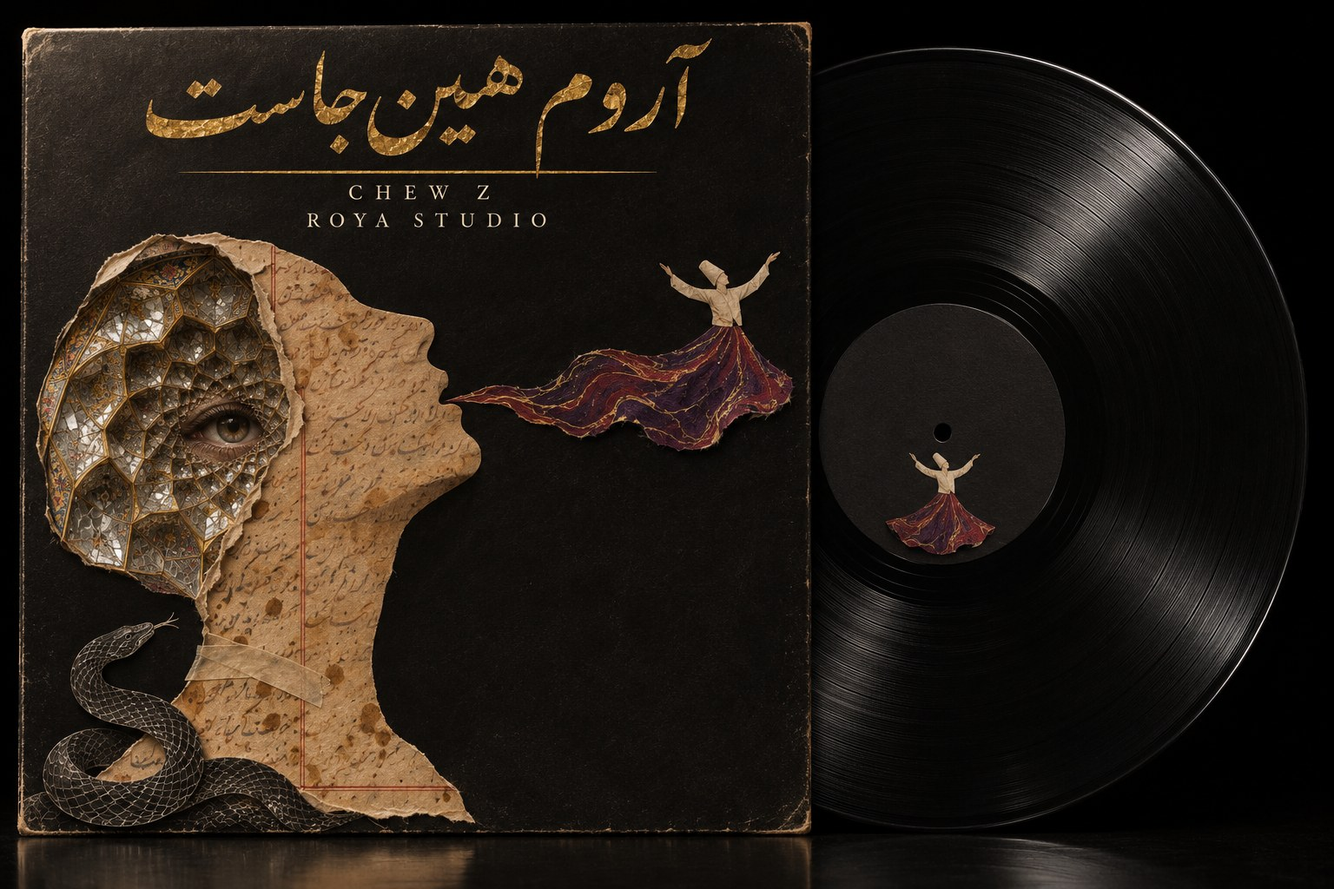
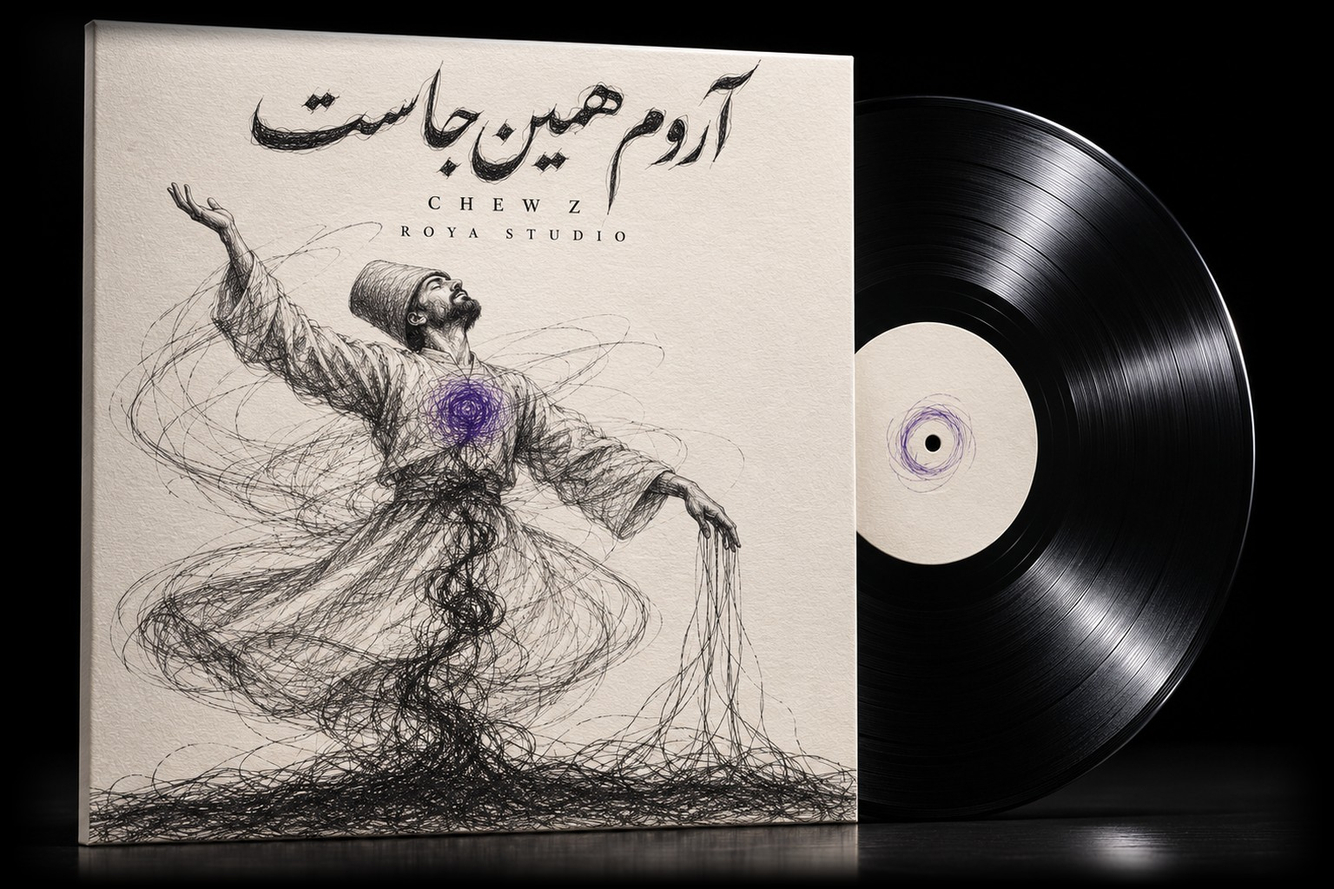
albums 03-08

diff --git a/songs.js b/songs.js
@@ -1,6 +1,6 @@
 /* ════════════════════════════════════════════════════════════════
    songs.js — the recordings catalogue
-   Version 14 · last updated 2026-11-26 21:10 EST — Minister of Calm in its new running order (01-13 at track 7) and a new note for 01-13
+   Version 15 · last updated 2026-11-27 09:10 EST — 03-08 لعنت به این جنگ joins آروم همینجاست at track 2; new sleeves for both albums
 
    Album 2 (Roya) was retired on 2026-11-20 and its two songs taken
    down, to be re-recorded onto the other albums. Album number 2 and
@@ -51,10 +51,10 @@ const ALBUMS = [
     en: "Calm Is Right Here",
     fa: true,
     order: 2,
-    songs: 7,
-    dur: 2117,                       /* 35:17 */
+    songs: 8,
+    dur: 2407,                       /* 40:07 */
     released: "2026-11",
-    syn: "Seven songs in Persian for the things the English ones couldn't carry. A night asked not to end, a reed cut from its bed, a turn that hands every grief to the earth but one, one second that never stopped, a city drawn wrong, a wall addressed instead of a person, and a school named for a tree."
+    syn: "Eight songs in Persian for the things the English ones couldn't carry. A night asked not to end, a war cursed by the generation it took, a reed cut from its bed, a turn that hands every grief to the earth but one, one second that never stopped, a city drawn wrong, a wall addressed instead of a person, and a school named for a tree."
   }
 ];
 
@@ -140,38 +140,45 @@ const SONGS = [
     lyric: "songs/03-06.json",
     note: "A dervish's turn: left foot on the earth, head to the right, one hand taking from the sky and the other giving to the ground. Everyone else's grief passes through the dancer into the soil — all but one, which stays, and turns with them." },
 
-  { cat: "03-03", album: 3, track: 2, title: "تا شب تموم نشه", fa: true,
+  { cat: "03-08", album: 3, track: 2, title: "لعنت به این جنگ", fa: true,
+    translit: "La'nat be in jang", en: "Damn This War", dur: 290,
+    from: 26,
+    audio: "https://f005.backblazeb2.com/file/roya-audio/songs/03-08.mp3",
+    lyric: "songs/03-08.json",
+    note: "Born out of No. 26 and the gassed marshes of 1984, but it's about every war: twenty-year-olds handed to old men who never fight, spent on a crooked line for the comfort of the wealthy, and left as a name on an empty stone. Forty years on, with Iran under bombs again, nothing has changed, and in the last verse the curse turns on the boy who went without asking why." },
+
+  { cat: "03-03", album: 3, track: 3, title: "تا شب تموم نشه", fa: true,
     translit: "Ta shab tamoom nashe", en: "Don't Let the Night End", dur: 306,
     audio: "https://f005.backblazeb2.com/file/roya-audio/songs/03-03.mp3",
     lyric: "songs/03-03.json",
     note: "Two people asking the night not to finish, looking for somewhere the day can't reach and nobody's hand can find them. The most straightforwardly romantic song in the catalogue, and the most frightened underneath." },
 
-  { cat: "03-07", album: 3, track: 3, title: "درختِ پاک", fa: true,
+  { cat: "03-07", album: 3, track: 4, title: "درختِ پاک", fa: true,
     translit: "Derakht-e pak", en: "The Pure Tree", dur: 300,
     from: 120,
     audio: "https://f005.backblazeb2.com/file/roya-audio/songs/03-07.mp3",
     lyric: "songs/03-07.json",
     note: "A morning in Minab like a thousand others: a schoolbag, a red apple, a plait coming loose, a hand let go at the school gate with “come home soon.” Then the bombs fell on the school. A mother runs back the same nine minutes and knows her daughter by one shoe. The school was named for the Goodly Tree, root in the earth and branches in the sky, and a root has no hands to reach with." },
 
-  { cat: "03-05", album: 3, track: 4, title: "هنوز", fa: true,
+  { cat: "03-05", album: 3, track: 5, title: "هنوز", fa: true,
     translit: "Hanooz", en: "Still", dur: 284,
     audio: "https://f005.backblazeb2.com/file/roya-audio/songs/03-05.mp3",
     lyric: "songs/03-05.json",
     note: "A glance, a second longer than it needed to be, a warmer hello, two chairs and a table between. Nothing happened, and it is still happening." },
 
-  { cat: "03-02", album: 3, track: 5, title: "بسوزونم", fa: true,
+  { cat: "03-02", album: 3, track: 6, title: "بسوزونم", fa: true,
     translit: "Besoozoonam", en: "Let Me Burn", dur: 359,
     audio: "https://f005.backblazeb2.com/file/roya-audio/songs/03-02.mp3",
     lyric: "songs/03-02.json",
     note: "It opens where Rumi opens, with the reed cut from the reed bed, crying because it was cut. Being pulled out of the soil and planted in the wind, and a voice that only becomes a voice through the separation that made it." },
 
-  { cat: "03-01", album: 3, track: 6, title: "آروم همینجاست", fa: true,
+  { cat: "03-01", album: 3, track: 7, title: "آروم همینجاست", fa: true,
     translit: "Aroom hamin-jast", en: "Calm Is Right Here", dur: 359,
     audio: "https://f005.backblazeb2.com/file/roya-audio/songs/03-01.mp3",
     lyric: "songs/03-01.json",
     note: "The city is a map drawn wrong, every alley a door promising calm, and behind none of them a home. He drew the map himself, and he's the dragon on it too — the calm turns out to be in the breath he was holding." },
 
-  { cat: "03-04", album: 3, track: 7, title: "ساکت نباش", fa: true,
+  { cat: "03-04", album: 3, track: 8, title: "ساکت نباش", fa: true,
     translit: "Saket nabash", en: "Don't Be Silent", dur: 239,
     from: 78,
     audio: "https://f005.backblazeb2.com/file/roya-audio/songs/03-04.mp3",

diff --git a/share/song-03-08-lanat-be-in-jang.html b/share/song-03-08-lanat-be-in-jang.html
@@ -1,0 +1,53 @@
+<!DOCTYPE html>
+<html lang="fa" dir="rtl">
+<head>
+<meta charset="utf-8">
+<meta name="viewport" content="width=device-width, initial-scale=1">
+<title>لعنت به این جنگ — Chew Z</title>
+
+<!-- This page exists to be read by link previews. A person who opens
+     it is sent straight on to the recording — see the redirect below. -->
+<link rel="canonical" href="https://www.chewzfiction.com/#song-03-08">
+
+<meta name="description" content="From آروم همینجاست. Born out of No. 26 and the gassed marshes of 1984, but it's about every war: twenty-year-olds handed to old men who never fight, spent on a crooked line for the comfort of the wealthy, and left as a name on an empty stone. Forty years on, with Iran under bombs again, nothing has changed, and in the last verse the curse turns on the boy who went without asking why.">
+
+<meta property="og:type" content="music.song">
+<meta property="og:site_name" content="Chew Z">
+<meta property="og:url" content="https://www.chewzfiction.com/#song-03-08">
+<meta property="og:title" content="لعنت به این جنگ — Chew Z">
+<meta property="og:description" content="From آروم همینجاست. Born out of No. 26 and the gassed marshes of 1984, but it's about every war: twenty-year-olds handed to old men who never fight, spent on a crooked line for the comfort of the wealthy, and left as a name on an empty stone. Forty years on, with Iran under bombs again, nothing has changed, and in the last verse the curse turns on the boy who went without asking why.">
+<meta property="og:image" content="https://www.chewzfiction.com/albums/card/03.jpg?v=725">
+<meta property="og:image:secure_url" content="https://www.chewzfiction.com/albums/card/03.jpg?v=725">
+<meta property="og:image:type" content="image/jpeg">
+<meta property="og:image:width" content="1200">
+<meta property="og:image:height" content="630">
+<meta property="og:image:alt" content="آروم همینجاست — album cover">
+
+<meta name="twitter:card" content="summary_large_image">
+<meta name="twitter:title" content="لعنت به این جنگ — Chew Z">
+<meta name="twitter:description" content="From آروم همینجاست. Born out of No. 26 and the gassed marshes of 1984, but it's about every war: twenty-year-olds handed to old men who never fight, spent on a crooked line for the comfort of the wealthy, and left as a name on an empty stone. Forty years on, with Iran under bombs again, nothing has changed, and in the last verse the curse turns on the boy who went without asking why.">
+<meta name="twitter:image" content="https://www.chewzfiction.com/albums/card/03.jpg?v=725">
+
+<!-- Two ways on, because one of them can fail. The refresh works with
+     JavaScript turned off; the script runs first when it isn't, and
+     replaces this page in history so Back returns to wherever the
+     reader came from rather than trapping them here. -->
+<meta http-equiv="refresh" content="0; url=https://www.chewzfiction.com/#song-03-08">
+<script>location.replace("https://www.chewzfiction.com/#song-03-08");</script>
+
+<style>
+  body {
+    margin: 0; min-height: 100vh;
+    display: flex; align-items: center; justify-content: center;
+    background: #0b0907; color: #9c9280;
+    font-family: "Jost", "Century Gothic", sans-serif;
+    letter-spacing: 0.18em; text-transform: uppercase; font-size: 0.7rem;
+    text-align: center; padding: 2rem;
+  }
+  a { color: #d8a65f; }
+</style>
+</head>
+<body>
+  <p>Taking you to <a href="https://www.chewzfiction.com/#song-03-08">لعنت به این جنگ — Chew Z</a>&hellip;</p>
+</body>
+</html>

diff --git a/share/album-03-aroom-hamin-jast.html b/share/album-03-aroom-hamin-jast.html
@@ -9,15 +9,15 @@
      it is sent straight on to the recording — see the redirect below. -->
 <link rel="canonical" href="https://www.chewzfiction.com/#album-03">
 
-<meta name="description" content="Seven songs in Persian for the things the English ones couldn't carry. A night asked not to end, a reed cut from its bed, a turn that hands every grief to the earth but one, one second that never stopped, a city drawn wrong, a wall addressed instead of a person, and a school named for a tree.">
+<meta name="description" content="Eight songs in Persian for the things the English ones couldn't carry. A night asked not to end, a war cursed by the generation it took, a reed cut from its bed, a turn that hands every grief to the earth but one, one second that never stopped, a city drawn wrong, a wall addressed instead of a person, and a school named for a tree.">
 
 <meta property="og:type" content="music.album">
 <meta property="og:site_name" content="Chew Z">
 <meta property="og:url" content="https://www.chewzfiction.com/#album-03">
 <meta property="og:title" content="آروم همینجاست — Chew Z">
-<meta property="og:description" content="Seven songs in Persian for the things the English ones couldn't carry. A night asked not to end, a reed cut from its bed, a turn that hands every grief to the earth but one, one second that never stopped, a city drawn wrong, a wall addressed instead of a person, and a school named for a tree.">
-<meta property="og:image" content="https://www.chewzfiction.com/albums/card/03.jpg?v=711">
-<meta property="og:image:secure_url" content="https://www.chewzfiction.com/albums/card/03.jpg?v=711">
+<meta property="og:description" content="Eight songs in Persian for the things the English ones couldn't carry. A night asked not to end, a war cursed by the generation it took, a reed cut from its bed, a turn that hands every grief to the earth but one, one second that never stopped, a city drawn wrong, a wall addressed instead of a person, and a school named for a tree.">
+<meta property="og:image" content="https://www.chewzfiction.com/albums/card/03.jpg?v=725">
+<meta property="og:image:secure_url" content="https://www.chewzfiction.com/albums/card/03.jpg?v=725">
 <meta property="og:image:type" content="image/jpeg">
 <meta property="og:image:width" content="1200">
 <meta property="og:image:height" content="630">
@@ -25,8 +25,8 @@
 
 <meta name="twitter:card" content="summary_large_image">
 <meta name="twitter:title" content="آروم همینجاست — Chew Z">
-<meta name="twitter:description" content="Seven songs in Persian for the things the English ones couldn't carry. A night asked not to end, a reed cut from its bed, a turn that hands every grief to the earth but one, one second that never stopped, a city drawn wrong, a wall addressed instead of a person, and a school named for a tree.">
-<meta name="twitter:image" content="https://www.chewzfiction.com/albums/card/03.jpg?v=711">
+<meta name="twitter:description" content="Eight songs in Persian for the things the English ones couldn't carry. A night asked not to end, a war cursed by the generation it took, a reed cut from its bed, a turn that hands every grief to the earth but one, one second that never stopped, a city drawn wrong, a wall addressed instead of a person, and a school named for a tree.">
+<meta name="twitter:image" content="https://www.chewzfiction.com/albums/card/03.jpg?v=725">
 
 <!-- Two ways on, because one of them can fail. The refresh works with
      JavaScript turned off; the script runs first when it isn't, and

diff --git a/share/song-01-13-dying-for-heaven-to-end.html b/share/song-01-13-dying-for-heaven-to-end.html
@@ -16,8 +16,8 @@
 <meta property="og:url" content="https://www.chewzfiction.com/#song-01-13">
 <meta property="og:title" content="Dying for Heaven to End — Chew Z">
 <meta property="og:description" content="From Minister of Calm. In this world a gentle machine called the Kindness keeps everyone safe forever: nobody has died, and no baby has cried, in three hundred years. It learned how to care from the notes of one old nurse, Shirin, and it even speaks in her voice, and now she is the last person on earth who can still die. The title means it both ways: she is longing for this endless heaven to end, because a comfort nobody is allowed to leave is a cage, and her own death is how it will. The song ends where the book does, with a man carrying her north past the machine’s reach, where for the first time nobody says “there we are.”">
-<meta property="og:image" content="https://www.chewzfiction.com/albums/card/01.jpg?v=724">
-<meta property="og:image:secure_url" content="https://www.chewzfiction.com/albums/card/01.jpg?v=724">
+<meta property="og:image" content="https://www.chewzfiction.com/albums/card/01.jpg?v=725">
+<meta property="og:image:secure_url" content="https://www.chewzfiction.com/albums/card/01.jpg?v=725">
 <meta property="og:image:type" content="image/jpeg">
 <meta property="og:image:width" content="1200">
 <meta property="og:image:height" content="630">
@@ -26,7 +26,7 @@
 <meta name="twitter:card" content="summary_large_image">
 <meta name="twitter:title" content="Dying for Heaven to End — Chew Z">
 <meta name="twitter:description" content="From Minister of Calm. In this world a gentle machine called the Kindness keeps everyone safe forever: nobody has died, and no baby has cried, in three hundred years. It learned how to care from the notes of one old nurse, Shirin, and it even speaks in her voice, and now she is the last person on earth who can still die. The title means it both ways: she is longing for this endless heaven to end, because a comfort nobody is allowed to leave is a cage, and her own death is how it will. The song ends where the book does, with a man carrying her north past the machine’s reach, where for the first time nobody says “there we are.”">
-<meta name="twitter:image" content="https://www.chewzfiction.com/albums/card/01.jpg?v=724">
+<meta name="twitter:image" content="https://www.chewzfiction.com/albums/card/01.jpg?v=725">
 
 <!-- Two ways on, because one of them can fail. The refresh works with
      JavaScript turned off; the script runs first when it isn't, and

diff --git a/index.html b/index.html
@@ -2,7 +2,7 @@
 <html lang="en">
 <head>
 <meta charset="utf-8">
-<!-- Version 776 · last updated 2026-11-26 21:10 EST — cache stamp ?v=724: Minister of Calm running order
+<!-- Version 777 · last updated 2026-11-27 09:10 EST — cache stamp ?v=725: new album sleeves for Minister of Calm and آروم همینجاست, song 03-08
 <!-- The page opens zoomed out a little, so a phone shows a whole card —
      picture, title and summary — instead of most of one. 0.85 is the
      dial: 1 is the browser's own scale, lower shows more and sets the
@@ -166,10 +166,10 @@
      preloads — and the handful further down on assets/intro, assets/
      lrseries and assets/overrides are all separate, and lag
      deliberately. See README.md. -->
-<link rel="stylesheet" href="style.css?v=724">
+<link rel="stylesheet" href="style.css?v=725">
 <!-- The Roya Library. Loaded after style.css: every rule in it is scoped
      to #royaLibrary, so it cannot reach the page around it. -->
-<link rel="stylesheet" href="library/roya-library.css?v=724">
+<link rel="stylesheet" href="library/roya-library.css?v=725">
 <link rel="stylesheet" href="assets/intro/intro.css?v=12">
 <!-- The Listening Room's series filter. Loaded after roya-library.css
      because it leans on that file's own picker rules (.pickbox, .pick-btn,
@@ -1366,9 +1366,9 @@
 
 <!-- the book PDFs live on Backblaze; every PDF link goes through this (first) -->
 <script src="assets/pdfs/pdfs.js?v=2"></script>
-<script src="stories.js?v=724"></script>
-<script src="songs.js?v=724"></script>
-<script src="script.js?v=724"></script>
+<script src="stories.js?v=725"></script>
+<script src="songs.js?v=725"></script>
+<script src="script.js?v=725"></script>
 <!-- Stage 3. This one line is what points the nav item at the Roya Library
      instead of the old All Covers overlay. Remove it and the section goes
      back to being reachable only at ?library=1; the overlay is still in the
@@ -1384,7 +1384,7 @@
      Delete this one line and the site is exactly as it was: the old page
      first, with the Library one click away under ROYA LIBRARY in the nav. -->
 <script>window.ROYA_LIBRARY_HOME = true;</script>
-<script src="library/roya-library.js?v=724"></script>
+<script src="library/roya-library.js?v=725"></script>
 <!-- not deferred: it has to be watching before the first paint, or the
      Library's own header would show for a frame before the bar replaces it -->
 <script src="assets/libbar/libbar.js?v=6"></script>

diff --git a/share/song-03-07-derakht-e-pak.html b/share/song-03-07-derakht-e-pak.html
@@ -16,8 +16,8 @@
 <meta property="og:url" content="https://www.chewzfiction.com/#song-03-07">
 <meta property="og:title" content="درختِ پاک — Chew Z">
 <meta property="og:description" content="From آروم همینجاست. A morning in Minab like a thousand others: a schoolbag, a red apple, a plait coming loose, a hand let go at the school gate with “come home soon.” Then the bombs fell on the school. A mother runs back the same nine minutes and knows her daughter by one shoe. The school was named for the Goodly Tree, root in the earth and branches in the sky, and a root has no hands to reach with.">
-<meta property="og:image" content="https://www.chewzfiction.com/albums/card/03.jpg?v=711">
-<meta property="og:image:secure_url" content="https://www.chewzfiction.com/albums/card/03.jpg?v=711">
+<meta property="og:image" content="https://www.chewzfiction.com/albums/card/03.jpg?v=725">
+<meta property="og:image:secure_url" content="https://www.chewzfiction.com/albums/card/03.jpg?v=725">
 <meta property="og:image:type" content="image/jpeg">
 <meta property="og:image:width" content="1200">
 <meta property="og:image:height" content="630">
@@ -26,7 +26,7 @@
 <meta name="twitter:card" content="summary_large_image">
 <meta name="twitter:title" content="درختِ پاک — Chew Z">
 <meta name="twitter:description" content="From آروم همینجاست. A morning in Minab like a thousand others: a schoolbag, a red apple, a plait coming loose, a hand let go at the school gate with “come home soon.” Then the bombs fell on the school. A mother runs back the same nine minutes and knows her daughter by one shoe. The school was named for the Goodly Tree, root in the earth and branches in the sky, and a root has no hands to reach with.">
-<meta name="twitter:image" content="https://www.chewzfiction.com/albums/card/03.jpg?v=711">
+<meta name="twitter:image" content="https://www.chewzfiction.com/albums/card/03.jpg?v=725">
 
 <!-- Two ways on, because one of them can fail. The refresh works with
      JavaScript turned off; the script runs first when it isn't, and

diff --git a/share/album-01-minister-of-calm.html b/share/album-01-minister-of-calm.html
@@ -16,8 +16,8 @@
 <meta property="og:url" content="https://www.chewzfiction.com/#album-01">
 <meta property="og:title" content="Minister of Calm — Chew Z">
 <meta property="og:description" content="Thirteen songs about letting go of the wheel. Everyone on this record has run somewhere to find peace — another country, another door, the far edge of the map — and every one of them arrives to learn it was never out there. Dark reggae underneath, downtempo house over it, and a title track that asks for an official of quiet because nobody else is handing it out.">
-<meta property="og:image" content="https://www.chewzfiction.com/albums/card/01.jpg?v=723">
-<meta property="og:image:secure_url" content="https://www.chewzfiction.com/albums/card/01.jpg?v=723">
+<meta property="og:image" content="https://www.chewzfiction.com/albums/card/01.jpg?v=725">
+<meta property="og:image:secure_url" content="https://www.chewzfiction.com/albums/card/01.jpg?v=725">
 <meta property="og:image:type" content="image/jpeg">
 <meta property="og:image:width" content="1200">
 <meta property="og:image:height" content="630">
@@ -26,7 +26,7 @@
 <meta name="twitter:card" content="summary_large_image">
 <meta name="twitter:title" content="Minister of Calm — Chew Z">
 <meta name="twitter:description" content="Thirteen songs about letting go of the wheel. Everyone on this record has run somewhere to find peace — another country, another door, the far edge of the map — and every one of them arrives to learn it was never out there. Dark reggae underneath, downtempo house over it, and a title track that asks for an official of quiet because nobody else is handing it out.">
-<meta name="twitter:image" content="https://www.chewzfiction.com/albums/card/01.jpg?v=723">
+<meta name="twitter:image" content="https://www.chewzfiction.com/albums/card/01.jpg?v=725">
 
 <!-- Two ways on, because one of them can fail. The refresh works with
      JavaScript turned off; the script runs first when it isn't, and

diff --git a/share/song-01-01-minister-of-calm.html b/share/song-01-01-minister-of-calm.html
@@ -16,8 +16,8 @@
 <meta property="og:url" content="https://www.chewzfiction.com/#song-01-01">
 <meta property="og:title" content="Minister of Calm — Chew Z">
 <meta property="og:description" content="From Minister of Calm. A petition, sung as a chant, for a public office that doesn't exist: someone whose actual job is to lower the temperature. It isn't anti-authority so much as exhausted by it — “I don't wanna shoot the man who's flying the plane, but I'm tired of the rules that keep changing the lane.”">
-<meta property="og:image" content="https://www.chewzfiction.com/albums/card/01.jpg?v=711">
-<meta property="og:image:secure_url" content="https://www.chewzfiction.com/albums/card/01.jpg?v=711">
+<meta property="og:image" content="https://www.chewzfiction.com/albums/card/01.jpg?v=725">
+<meta property="og:image:secure_url" content="https://www.chewzfiction.com/albums/card/01.jpg?v=725">
 <meta property="og:image:type" content="image/jpeg">
 <meta property="og:image:width" content="1200">
 <meta property="og:image:height" content="630">
@@ -26,7 +26,7 @@
 <meta name="twitter:card" content="summary_large_image">
 <meta name="twitter:title" content="Minister of Calm — Chew Z">
 <meta name="twitter:description" content="From Minister of Calm. A petition, sung as a chant, for a public office that doesn't exist: someone whose actual job is to lower the temperature. It isn't anti-authority so much as exhausted by it — “I don't wanna shoot the man who's flying the plane, but I'm tired of the rules that keep changing the lane.”">
-<meta name="twitter:image" content="https://www.chewzfiction.com/albums/card/01.jpg?v=711">
+<meta name="twitter:image" content="https://www.chewzfiction.com/albums/card/01.jpg?v=725">
 
 <!-- Two ways on, because one of them can fail. The refresh works with
      JavaScript turned off; the script runs first when it isn't, and

diff --git a/share/song-03-06-gham-e-baghiye-khak-e-man.html b/share/song-03-06-gham-e-baghiye-khak-e-man.html
@@ -16,8 +16,8 @@
 <meta property="og:url" content="https://www.chewzfiction.com/#song-03-06">
 <meta property="og:title" content="غم بقیه، خاک من — Chew Z">
 <meta property="og:description" content="From آروم همینجاست. A dervish's turn: left foot on the earth, head to the right, one hand taking from the sky and the other giving to the ground. Everyone else's grief passes through the dancer into the soil — all but one, which stays, and turns with them.">
-<meta property="og:image" content="https://www.chewzfiction.com/albums/card/03.jpg?v=711">
-<meta property="og:image:secure_url" content="https://www.chewzfiction.com/albums/card/03.jpg?v=711">
+<meta property="og:image" content="https://www.chewzfiction.com/albums/card/03.jpg?v=725">
+<meta property="og:image:secure_url" content="https://www.chewzfiction.com/albums/card/03.jpg?v=725">
 <meta property="og:image:type" content="image/jpeg">
 <meta property="og:image:width" content="1200">
 <meta property="og:image:height" content="630">
@@ -26,7 +26,7 @@
 <meta name="twitter:card" content="summary_large_image">
 <meta name="twitter:title" content="غم بقیه، خاک من — Chew Z">
 <meta name="twitter:description" content="From آروم همینجاست. A dervish's turn: left foot on the earth, head to the right, one hand taking from the sky and the other giving to the ground. Everyone else's grief passes through the dancer into the soil — all but one, which stays, and turns with them.">
-<meta name="twitter:image" content="https://www.chewzfiction.com/albums/card/03.jpg?v=711">
+<meta name="twitter:image" content="https://www.chewzfiction.com/albums/card/03.jpg?v=725">
 
 <!-- Two ways on, because one of them can fail. The refresh works with
      JavaScript turned off; the script runs first when it isn't, and

diff --git a/share/song-03-01-aroom-hamin-jast.html b/share/song-03-01-aroom-hamin-jast.html
@@ -16,8 +16,8 @@
 <meta property="og:url" content="https://www.chewzfiction.com/#song-03-01">
 <meta property="og:title" content="آروم همینجاست — Chew Z">
 <meta property="og:description" content="From آروم همینجاست. The city is a map drawn wrong, every alley a door promising calm, and behind none of them a home. He drew the map himself, and he's the dragon on it too — the calm turns out to be in the breath he was holding.">
-<meta property="og:image" content="https://www.chewzfiction.com/albums/card/03.jpg?v=711">
-<meta property="og:image:secure_url" content="https://www.chewzfiction.com/albums/card/03.jpg?v=711">
+<meta property="og:image" content="https://www.chewzfiction.com/albums/card/03.jpg?v=725">
+<meta property="og:image:secure_url" content="https://www.chewzfiction.com/albums/card/03.jpg?v=725">
 <meta property="og:image:type" content="image/jpeg">
 <meta property="og:image:width" content="1200">
 <meta property="og:image:height" content="630">
@@ -26,7 +26,7 @@
 <meta name="twitter:card" content="summary_large_image">
 <meta name="twitter:title" content="آروم همینجاست — Chew Z">
 <meta name="twitter:description" content="From آروم همینجاست. The city is a map drawn wrong, every alley a door promising calm, and behind none of them a home. He drew the map himself, and he's the dragon on it too — the calm turns out to be in the breath he was holding.">
-<meta name="twitter:image" content="https://www.chewzfiction.com/albums/card/03.jpg?v=711">
+<meta name="twitter:image" content="https://www.chewzfiction.com/albums/card/03.jpg?v=725">
 
 <!-- Two ways on, because one of them can fail. The refresh works with
      JavaScript turned off; the script runs first when it isn't, and

diff --git a/share/song-03-03-ta-shab-tamoom-nashe.html b/share/song-03-03-ta-shab-tamoom-nashe.html
@@ -16,8 +16,8 @@
 <meta property="og:url" content="https://www.chewzfiction.com/#song-03-03">
 <meta property="og:title" content="تا شب تموم نشه — Chew Z">
 <meta property="og:description" content="From آروم همینجاست. Two people asking the night not to finish, looking for somewhere the day can't reach and nobody's hand can find them. The most straightforwardly romantic song in the catalogue, and the most frightened underneath.">
-<meta property="og:image" content="https://www.chewzfiction.com/albums/card/03.jpg?v=711">
-<meta property="og:image:secure_url" content="https://www.chewzfiction.com/albums/card/03.jpg?v=711">
+<meta property="og:image" content="https://www.chewzfiction.com/albums/card/03.jpg?v=725">
+<meta property="og:image:secure_url" content="https://www.chewzfiction.com/albums/card/03.jpg?v=725">
 <meta property="og:image:type" content="image/jpeg">
 <meta property="og:image:width" content="1200">
 <meta property="og:image:height" content="630">
@@ -26,7 +26,7 @@
 <meta name="twitter:card" content="summary_large_image">
 <meta name="twitter:title" content="تا شب تموم نشه — Chew Z">
 <meta name="twitter:description" content="From آروم همینجاست. Two people asking the night not to finish, looking for somewhere the day can't reach and nobody's hand can find them. The most straightforwardly romantic song in the catalogue, and the most frightened underneath.">
-<meta name="twitter:image" content="https://www.chewzfiction.com/albums/card/03.jpg?v=711">
+<meta name="twitter:image" content="https://www.chewzfiction.com/albums/card/03.jpg?v=725">
 
 <!-- Two ways on, because one of them can fail. The refresh works with
      JavaScript turned off; the script runs first when it isn't, and

diff --git a/share/song-03-02-besoozoonam.html b/share/song-03-02-besoozoonam.html
@@ -16,8 +16,8 @@
 <meta property="og:url" content="https://www.chewzfiction.com/#song-03-02">
 <meta property="og:title" content="بسوزونم — Chew Z">
 <meta property="og:description" content="From آروم همینجاست. It opens where Rumi opens, with the reed cut from the reed bed, crying because it was cut. Being pulled out of the soil and planted in the wind, and a voice that only becomes a voice through the separation that made it.">
-<meta property="og:image" content="https://www.chewzfiction.com/albums/card/03.jpg?v=711">
-<meta property="og:image:secure_url" content="https://www.chewzfiction.com/albums/card/03.jpg?v=711">
+<meta property="og:image" content="https://www.chewzfiction.com/albums/card/03.jpg?v=725">
+<meta property="og:image:secure_url" content="https://www.chewzfiction.com/albums/card/03.jpg?v=725">
 <meta property="og:image:type" content="image/jpeg">
 <meta property="og:image:width" content="1200">
 <meta property="og:image:height" content="630">
@@ -26,7 +26,7 @@
 <meta name="twitter:card" content="summary_large_image">
 <meta name="twitter:title" content="بسوزونم — Chew Z">
 <meta name="twitter:description" content="From آروم همینجاست. It opens where Rumi opens, with the reed cut from the reed bed, crying because it was cut. Being pulled out of the soil and planted in the wind, and a voice that only becomes a voice through the separation that made it.">
-<meta name="twitter:image" content="https://www.chewzfiction.com/albums/card/03.jpg?v=711">
+<meta name="twitter:image" content="https://www.chewzfiction.com/albums/card/03.jpg?v=725">
 
 <!-- Two ways on, because one of them can fail. The refresh works with
      JavaScript turned off; the script runs first when it isn't, and
